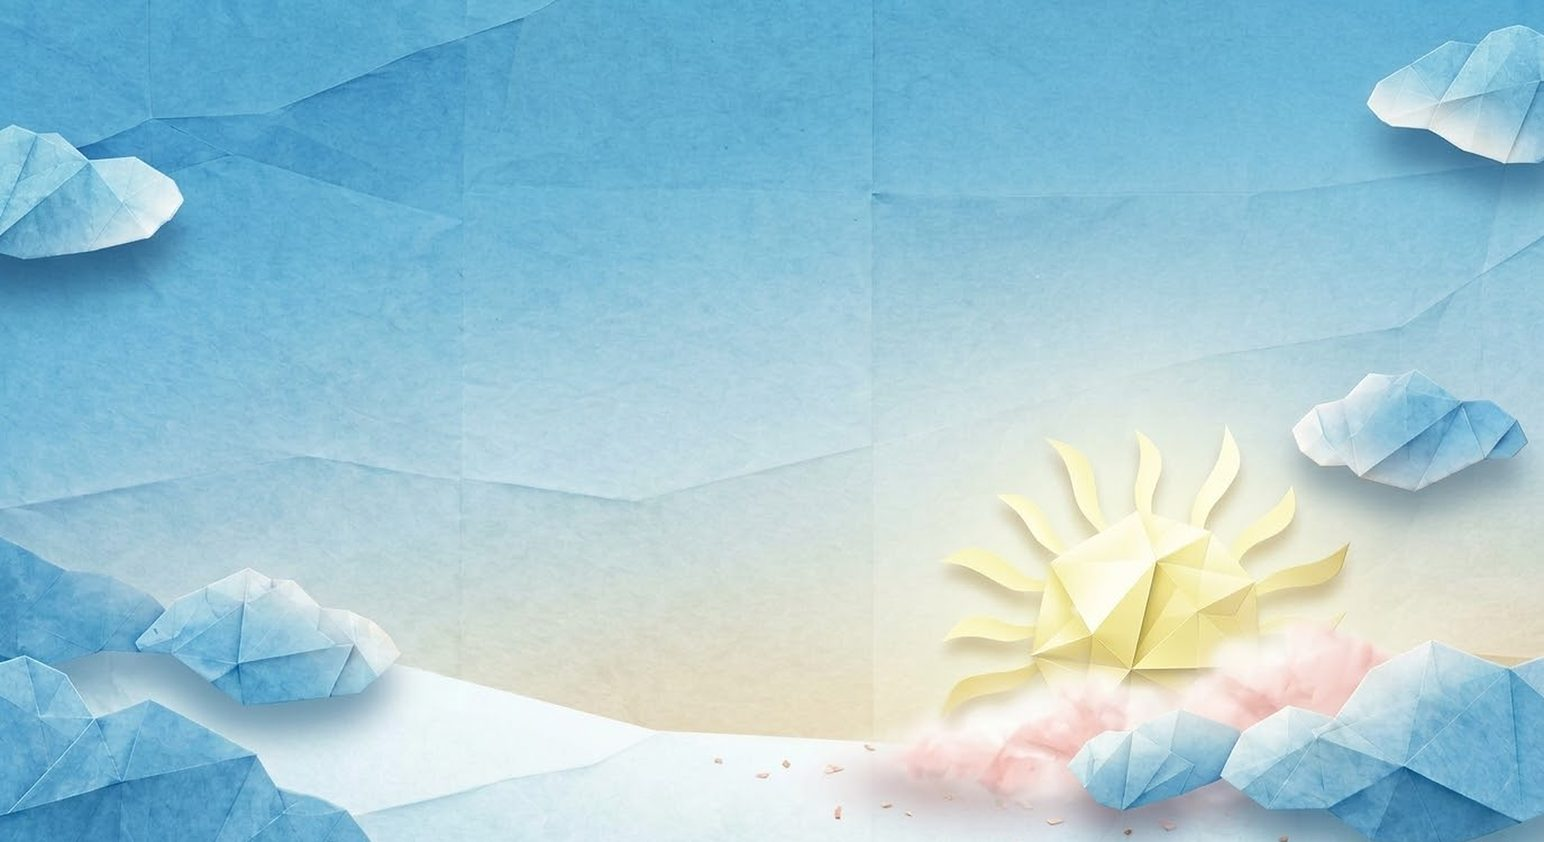
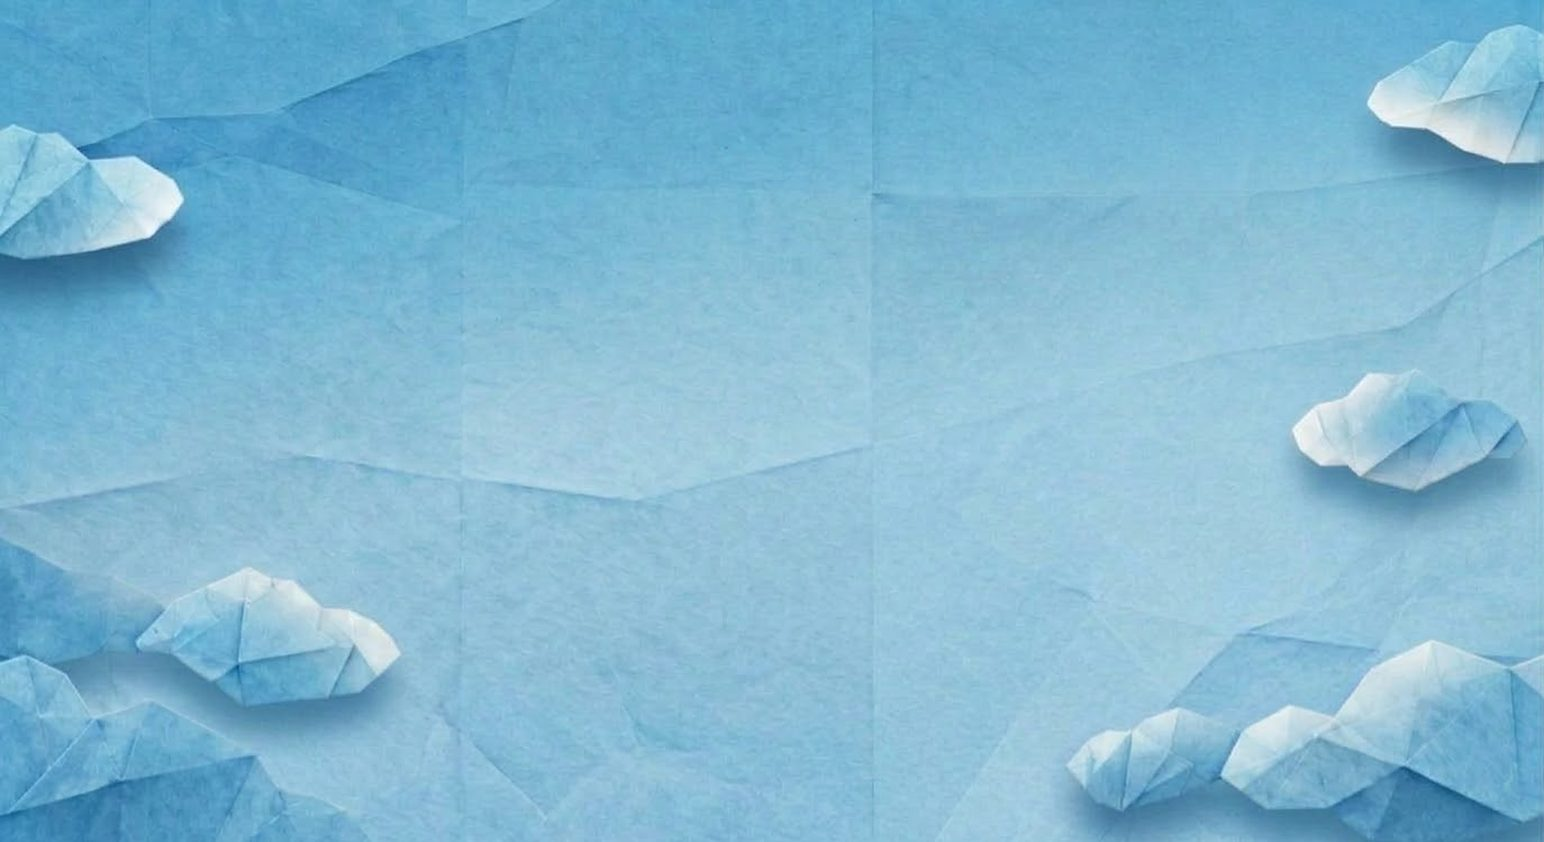
朝と夕方の空を、太陽のない新しい絵に差し替え
朝は淡い青空、夕方は暗い紺から橙のグラデーション。雲の並びは前と同じなので、夕方から夜への重ねで雲がずれない。
動きの始まりと終わりの値は、太陽の絵だった名残のまま (雲の見え方だけ変わる)。
tests: npm test 17 件, test:ui 166 件

Claude-Session: https://claude.ai/code/session_01VNifuaMGz9kWVnVmfma8o2

diff --git a/CLAUDE.md b/CLAUDE.md
@@ -25,11 +25,11 @@
   両端を斜めに切った `clip-path`) とベストの数字 (本物のテキスト。絵の中の数字は、元の絵から**消してある**) を重ねる。待っている鳥はロゴと「タップでスタート」のあいだに見える。
   **アイテムと残りハートも折り紙の絵** (40pt の正方形でふわふわ上下。当たりは `ITEM_R` 14pt のまま。効果の残り時間の印も同じ絵)。
   もらった絵のうち、青い折り紙・茶色の亀・白い帯 (ハート入り) は使っていない。
-  **空は全ステージ紙の絵 8 枚** (`assets/sky-morning.jpg` = 朝の淡い太陽と雲 / `sky-noon.jpg` = 昼の青い空と太陽 / `sky-sunset.jpg` = 夕焼けの大きな太陽と雲 / `sky-dusk.jpg` = 夕方から夜へ (三日月・星・同じ雲) /
+  **空は全ステージ紙の絵 8 枚** (`assets/sky-morning.jpg` = 朝の淡い青空と雲 (太陽なし) / `sky-noon.jpg` = 昼の青い空と太陽 / `sky-sunset.jpg` = 夕焼けと雲 (太陽なし) / `sky-dusk.jpg` = 夕方から夜へ (三日月・星・同じ雲) /
   `sky-night.jpg` = 満月と雲 / `sky-starry.jpg` = 三日月・星・雲 / `sky-aurora.jpg` = オーロラと氷山 / `sky-space.jpg` = 宇宙 (惑星・宇宙飛行士・銀河))。
   空の絵は全部**横長の 1544x842 (1pt = 1 画素)**。元の横長の絵 (1375x768 / 1679x937) から、空と同じ縦横比にそろえて (下の端を少し切る。床の下に隠れる側) 切り、1.37 倍の細かさで星を縮めてから 1544x842 に戻した。**宇宙だけは 1930x1053** (高さ 842pt・幅 1544pt で置く)。
   動かすのはステージごとの入れ物 `.sky-pan` (`#panMorning` / `#panNoon` / `#panSunset` (夕方と夕方から夜を一緒に) / `#panNight` / `#panStarry` / `#panAurora` / `#panSpace`)。`transform` だけを動かすので軽い。床は含めない。**そのステージが出た瞬間から動かし直す** (`app.js` の `applySky` が `.run` を付け直す。新しいゲームの頭も `resetSkyPan`)。いちばん上とその下の入れ物だけ `visibility: visible` (それより下は隠す。隠れた大きい絵を、遅い端末が抱えないため)。
-  **動きの始まりと終わりは、太陽や月が窓の中を通り、点数 (画面の中央上 x≈170〜260・y≈70〜130) に重ならないように決めた** (`styles.css` の `panXxx` keyframes。値は translateX の pt)。朝 775→1114 (太陽が窓の中を左へ)・昼 853→560 (太陽が右へ抜ける。中央を通ると点数が黄色に溶ける)・夕方 150→500・夜 900→640 (月の中心が x>337 なら点数に重ならない)・星空 930→600 (三日月の左端が x≥270)・オーロラ 400→800。速さは 1 秒に 8pt ほど、**行って戻らず終点で止まる** (15 点 ≈ 20 秒より長い 33〜50 秒)。宇宙だけは 180 秒の行って戻る。
+  **動きの始まりと終わりは、太陽や月が窓の中を通り、点数 (画面の中央上 x≈170〜260・y≈70〜130) に重ならないように決めた** (`styles.css` の `panXxx` keyframes。値は translateX の pt)。朝 775→1114 (太陽の絵だった名残の値。いまは太陽なしで、雲の見え方だけ)・昼 853→560 (太陽が右へ抜ける。中央を通ると点数が黄色に溶ける)・夕方 150→500 (同上)・夜 900→640 (月の中心が x>337 なら点数に重ならない)・星空 930→600 (三日月の左端が x≥270)・オーロラ 400→800。速さは 1 秒に 8pt ほど、**行って戻らず終点で止まる** (15 点 ≈ 20 秒より長い 33〜50 秒)。宇宙だけは 180 秒の行って戻る。
   夕方と夕方から夜は**同じ入れ物・同じ位置**で動く (雲の並びがそろった組なので、ゆっくり重ねると夕焼けが暮れていくように見える。別々に動かすと雲がずれる)。
   `#skyMorning` / `#skyNoon` / `#skySunset` / `#skyDusk` / `#skyNight` / `#skyStarry` / `#skyAurora` / `#skySpace` (`.sky-art`) を `#sky` の上に**下から順に重ね**、濃さは `palette().skyArt` (8 つの数):
   朝は最初から、昼 **15 点**・夕方 **30 点**・夜 **45 点**・星空 **60 点**・オーロラ **75 点**・宇宙 **90 点** (= ステージの頭。色がそのステージの色になる点) でぱっと、夕方から夜は **30→45 点でなめらかに** (どれも CSS の 0.6 秒の重ね合わせ)。
